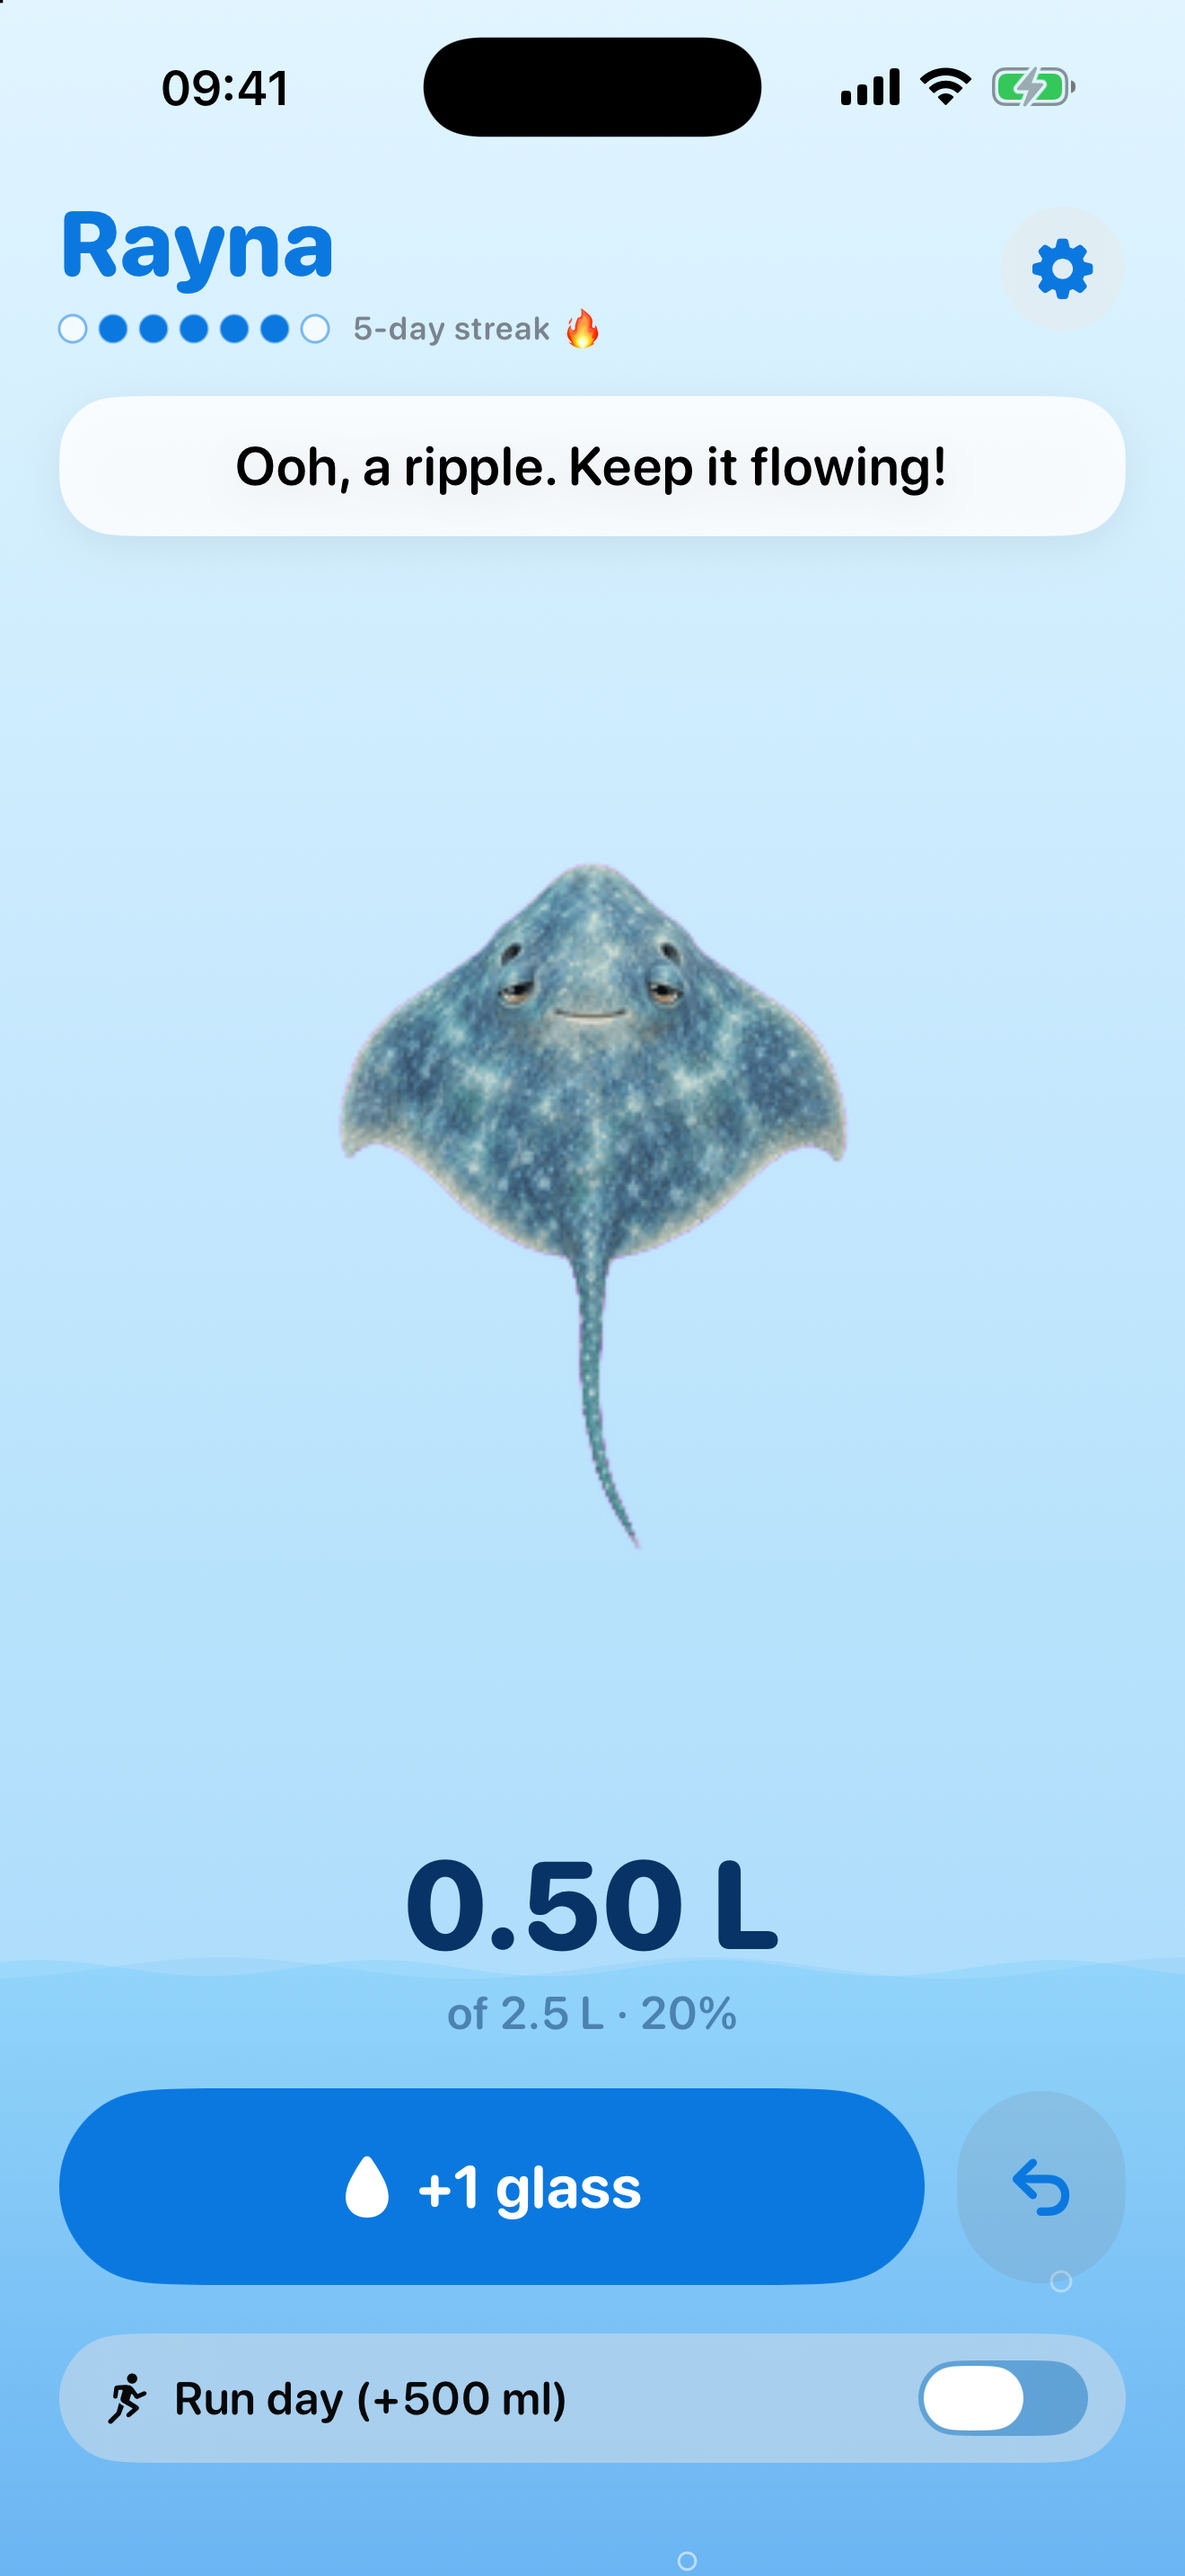
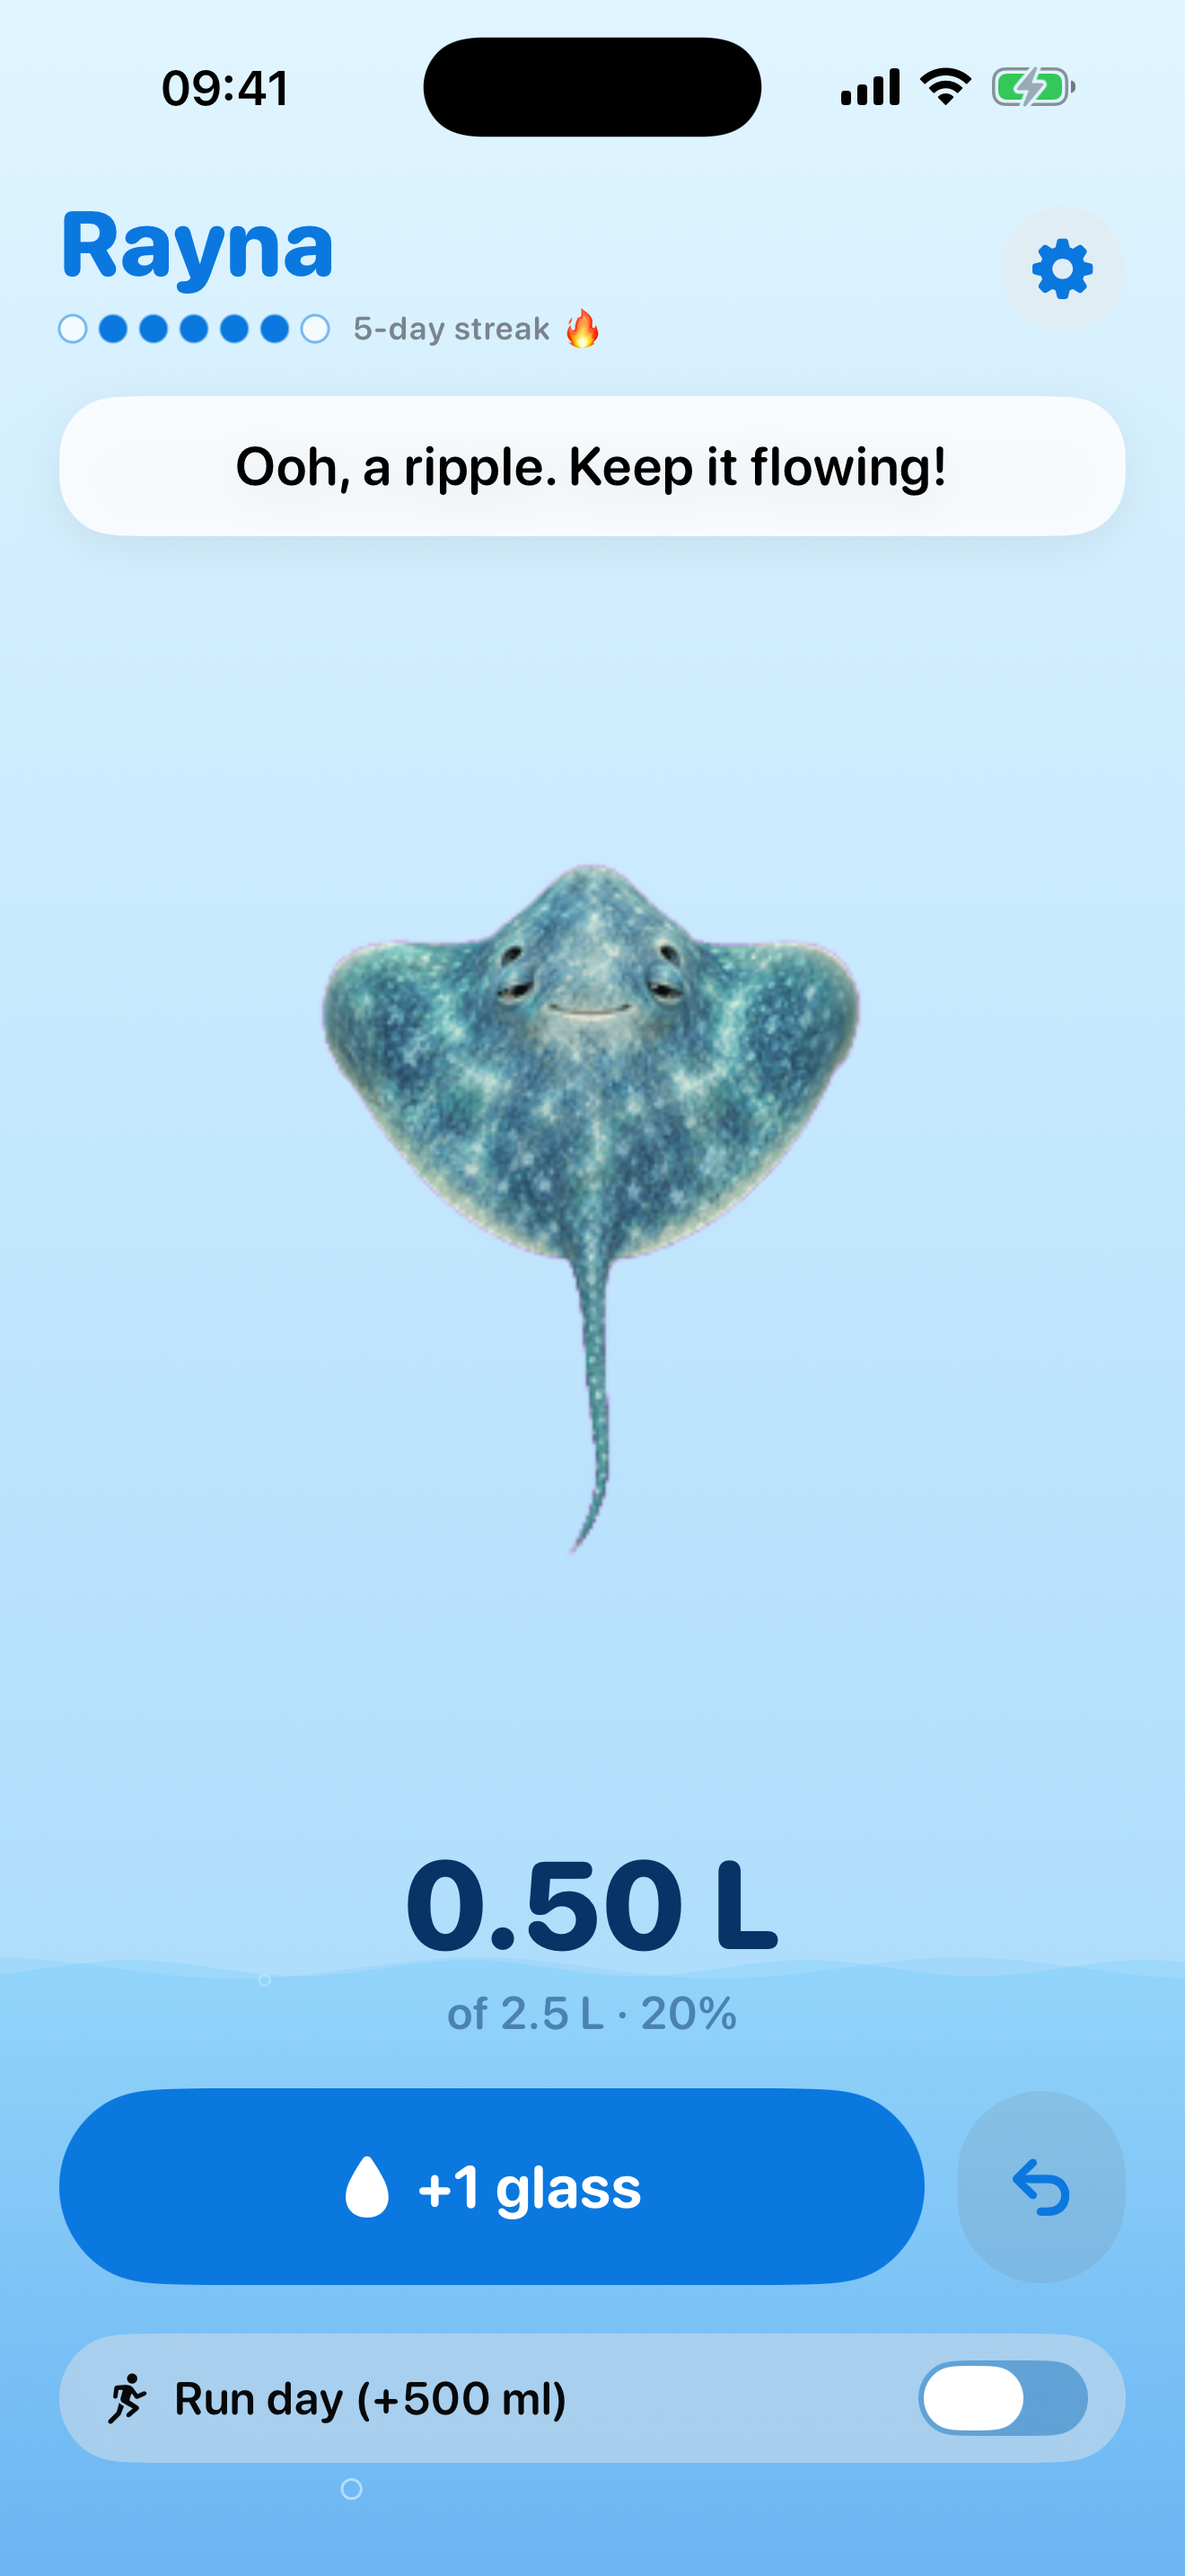
Rayna 2.1.1: faster launch, code-driven goal spin, refreshed screenshots
- Drop the generated barrel roll (body twisted unnaturally); goal = in-plane 360 spin
  with scale/bob over the idle-happy loop, plus existing confetti. Nudge 'Drank one'
  = wiggle then swim-off.
- Frames decode lazily per clip on a background queue (no lock held while decoding),
  visible idle loop first; a band still shows until frames are ready. Notification
  setup moved off the launch path. RaynaLaunch timing log + scripts/launch-time.sh.
- Screenshot script: warm-up launch so the first capture has the Dynamic Island.
- macOS 2.1.1 (build 5).

diff --git a/Sources/RaynaCore/AnimatedRayna.swift b/Sources/RaynaCore/AnimatedRayna.swift
@@ -9,12 +9,23 @@ import UIKit
 /// One animation clip shipped in `RaynaFrames/<name>/NNN.png`.
 public enum RaynaClip: String, CaseIterable {
     case idleHappy = "idle-happy", idleThirsty = "idle-thirsty"
-    case wiggle, roll, swimIn = "swim-in", swimOff = "swim-off", poutSwimOff = "pout-swim-off"
+    case wiggle, swimIn = "swim-in", swimOff = "swim-off", poutSwimOff = "pout-swim-off"
 
     /// Playback rate. Source art is 24 fps; we ship every other frame.
-    public var fps: Double { self == .roll ? 18 : 12 }
+    public var fps: Double { 12 }
     public var loops: Bool { self == .idleHappy || self == .idleThirsty }
-    public var duration: Double { Double(RaynaFrames.frames(self).count) / fps }
+    /// Frames shipped per clip (fixed so durations are known before frames are decoded).
+    public var frameCount: Int {
+        switch self {
+        case .idleHappy: return 48
+        case .idleThirsty: return 60
+        case .wiggle: return 15
+        case .swimIn: return 49
+        case .swimOff: return 37
+        case .poutSwimOff: return 49
+        }
+    }
+    public var duration: Double { Double(frameCount) / fps }
 }
 
 /// The five widget / Reduce Motion stills, by progress band.
@@ -36,50 +47,81 @@ public enum RaynaFrames {
     private final class Token {}
     private static let lock = NSLock()
     private static var cache: [String: [CGImage]] = [:]
+    private static var loading: Set<String> = []
+    /// Frames decode here, one clip at a time, never on the main thread.
+    private static let queue = DispatchQueue(label: "co.versantus.rayna.frames", qos: .userInitiated)
 
     /// Finds `Rayna_RaynaCore.bundle` wherever the host put it (Xcode app/appex, SwiftPM .app, swift run).
+    /// Cheap locations first; only scans loaded bundles as a last resort.
     static let root: URL? = {
         let name = "Rayna_RaynaCore.bundle"
-        var c: [URL?] = [Bundle.main.resourceURL, Bundle.main.bundleURL,
-                         Bundle(for: Token.self).resourceURL, Bundle(for: Token.self).bundleURL,
-                         Bundle.main.executableURL?.deletingLastPathComponent()]
-        c += Bundle.allBundles.map { $0.resourceURL } + Bundle.allFrameworks.map { $0.resourceURL }
-        for base in c.compactMap({ $0 }) {
+        func probe(_ base: URL?) -> URL? {
+            guard let base else { return nil }
             for u in [base.appendingPathComponent(name).appendingPathComponent("RaynaFrames"),
                       base.appendingPathComponent(name).appendingPathComponent("Contents/Resources/RaynaFrames"),
                       base.appendingPathComponent("RaynaFrames")]
             where FileManager.default.fileExists(atPath: u.path) { return u }
+            return nil
+        }
+        let quick: [URL?] = [Bundle.main.resourceURL, Bundle.main.bundleURL,
+                             Bundle(for: Token.self).resourceURL, Bundle(for: Token.self).bundleURL,
+                             Bundle.main.executableURL?.deletingLastPathComponent()]
+        for b in quick { if let u = probe(b) { return u } }
+        for b in Bundle.allBundles.map({ $0.resourceURL }) + Bundle.allFrameworks.map({ $0.resourceURL }) {
+            if let u = probe(b) { return u }
         }
         return nil
     }()
 
-    private static func load(_ dir: String) -> [CGImage] {
-        lock.lock(); defer { lock.unlock() }
-        if let c = cache[dir] { return c }
-        guard let root else { return [] }
-        let d = root.appendingPathComponent(dir)
-        let files = ((try? FileManager.default.contentsOfDirectory(atPath: d.path)) ?? [])
-            .filter { $0.hasSuffix(".png") }.sorted()
-        let imgs = files.compactMap { f -> CGImage? in
-            guard let src = CGImageSourceCreateWithURL(d.appendingPathComponent(f) as CFURL, nil) else { return nil }
-            return CGImageSourceCreateImageAtIndex(src, 0, [kCGImageSourceShouldCacheImmediately: true] as CFDictionary)
-        }
-        cache[dir] = imgs
-        return imgs
+    private static func decode(_ url: URL) -> CGImage? {
+        guard let src = CGImageSourceCreateWithURL(url as CFURL, nil) else { return nil }
+        return CGImageSourceCreateImageAtIndex(src, 0, [kCGImageSourceShouldCacheImmediately: true] as CFDictionary)
     }
 
-    public static func frames(_ clip: RaynaClip) -> [CGImage] { load(clip.rawValue) }
+    private static func cached(_ key: String) -> [CGImage]? {
+        lock.lock(); defer { lock.unlock() }
+        return cache[key]
+    }
+
+    /// Decode a clip in the background (no-op if cached or already loading).
+    private static func loadAsync(_ dir: String) {
+        lock.lock()
+        if cache[dir] != nil || loading.contains(dir) { lock.unlock(); return }
+        loading.insert(dir); lock.unlock()
+        queue.async {
+            var imgs: [CGImage] = []
+            if let root {
+                let d = root.appendingPathComponent(dir)
+                let files = ((try? FileManager.default.contentsOfDirectory(atPath: d.path)) ?? [])
+                    .filter { $0.hasSuffix(".png") }.sorted()
+                imgs = files.compactMap { decode(d.appendingPathComponent($0)) }
+            }
+            lock.lock(); cache[dir] = imgs; loading.remove(dir); lock.unlock()
+        }
+    }
+
+    /// Frames for a clip if they're decoded; otherwise starts decoding and returns [] (callers show a still).
+    public static func frames(_ clip: RaynaClip) -> [CGImage] {
+        if let c = cached(clip.rawValue) { return c }
+        loadAsync(clip.rawValue)
+        return []
+    }
+    public static func isReady(_ clip: RaynaClip) -> Bool { cached(clip.rawValue).map { !$0.isEmpty } ?? false }
+
+    /// One 512 px still: small enough to decode synchronously, so something shows on the very first frame.
     public static func still(_ band: RaynaBand) -> CGImage? {
-        lock.lock(); let c = cache["stills/" + band.file]; lock.unlock()
-        if let c { return c.first }
-        guard let root, let src = CGImageSourceCreateWithURL(root.appendingPathComponent("stills/\(band.file).png") as CFURL, nil),
-              let img = CGImageSourceCreateImageAtIndex(src, 0, nil) else { return nil }
-        lock.lock(); cache["stills/" + band.file] = [img]; lock.unlock()
+        let key = "stills/" + band.file
+        if let c = cached(key) { return c.first }
+        guard let root, let img = decode(root.appendingPathComponent("stills/\(band.file).png")) else { return nil }
+        lock.lock(); cache[key] = [img]; lock.unlock()
         return img
     }
-    /// Warm the cache off the main thread.
-    public static func preload(_ clips: [RaynaClip] = RaynaClip.allCases) {
-        DispatchQueue.global(qos: .utility).async { clips.forEach { _ = frames($0) } }
+    /// Warm clips in the background, in the order given (put the visible idle loop first).
+    public static func preload(_ clips: [RaynaClip]) { clips.forEach { loadAsync($0.rawValue) } }
+    /// The idle loop for `progress` first, then the rest after a short delay.
+    public static func preloadForLaunch(progress: Double) {
+        preload([progress >= 0.45 ? .idleHappy : .idleThirsty, .wiggle])
+        DispatchQueue.global(qos: .utility).asyncAfter(deadline: .now() + 2) { preload(RaynaClip.allCases) }
     }
 }
 
@@ -109,7 +151,7 @@ public struct RaynaScript: Equatable {
 }
 
 /// Animated Rayna: picks a clip by state and plays its frames with TimelineView.
-/// idle-happy (progress ≥ 45%) / idle-thirsty loops, wiggle on +1 glass, roll at goal,
+/// idle-happy (progress ≥ 45%) / idle-thirsty loops, wiggle on +1 glass, a code-driven spin at goal,
 /// or an explicit `script` (nudge panel). Reduce Motion shows the band still.
 public struct RaynaView: View {
     public var progress: Double
@@ -132,17 +174,37 @@ public struct RaynaView: View {
             if reduceMotion {
                 RaynaStill(progress: progress)
             } else {
-                TimelineView(.animation(minimumInterval: 1.0 / 24)) { tl in
+                TimelineView(.animation(minimumInterval: 1.0 / 30)) { tl in
                     if let img = frame(at: tl.date) {
+                        let _ = LaunchTiming.mark("firstAnimatedFrame")
+                        let sp = spin(at: tl.date)
                         Image(decorative: img, scale: 1).resizable().interpolation(.high).aspectRatio(contentMode: .fit)
+                            .rotationEffect(.degrees(sp.angle))
+                            .scaleEffect(sp.scale)
+                            .offset(y: sp.lift * size)
+                    } else if script != nil {
+                        Color.clear                      // nudge: don't flash a static Rayna before swim-in
                     } else {
-                        RaynaStill(progress: progress)
+                        let _ = LaunchTiming.mark("firstStill")
+                        RaynaStill(progress: progress)   // shown while the clip decodes
                     }
                 }
             }
         }
         .frame(width: size, height: fullTail ? size * 1.32 : size)
         .accessibilityLabel("Rayna the stingray, \(Int(progress * 100)) percent hydrated")
+    }
+
+    /// Goal celebration: a joyful in-plane 360° spin with a little scale-up and bob (code-driven;
+    /// replaces the generated barrel roll, which twisted her body unnaturally).
+    public static let spinDuration = 1.6
+    func spin(at date: Date) -> (angle: Double, scale: Double, lift: Double) {
+        guard script == nil, let f = flipAt else { return (0, 1, 0) }
+        let t = date.timeIntervalSince(f) / Self.spinDuration
+        guard t >= 0, t < 1 else { return (0, 1, 0) }
+        let e = t < 0.5 ? 4 * t * t * t : 1 - pow(-2 * t + 2, 3) / 2   // easeInOutCubic
+        let hump = sin(.pi * t)
+        return (360 * e, 1 + 0.14 * hump, -0.06 * hump)
     }
 
     private var idle: RaynaClip { progress >= 0.45 ? .idleHappy : .idleThirsty }
@@ -165,8 +227,8 @@ public struct RaynaView: View {
             if let t = s.then { return pick(t, age) }
             return s.clips.last.flatMap { RaynaFrames.frames($0).last }
         }
-        if let f = flipAt, date.timeIntervalSince(f) >= 0, date.timeIntervalSince(f) < RaynaClip.roll.duration {
-            return pick(.roll, date.timeIntervalSince(f))
+        if let f = flipAt, date.timeIntervalSince(f) >= 0, date.timeIntervalSince(f) < Self.spinDuration {
+            return pick(.idleHappy, date.timeIntervalSince(f))   // wings keep flapping while she spins
         }
         if let w = wiggleAt, date.timeIntervalSince(w) >= 0, date.timeIntervalSince(w) < RaynaClip.wiggle.duration {
             return pick(.wiggle, date.timeIntervalSince(w))

diff --git a/Sources/Rayna/NudgeController.swift b/Sources/Rayna/NudgeController.swift
@@ -57,7 +57,7 @@ struct NudgeView: View {
 
     @State private var opacity: Double = 1
     @State private var bubble = false
-    /// The Higgsfield clips carry all of Rayna's motion (swim in from the right, roll, pout, exit right).
+    /// The Higgsfield clips carry all of Rayna's motion (swim in from the right, wiggle, pout, exit right).
     @State private var script = RaynaScript([.swimIn], then: .idleHappy)
     @State private var leaving = false
 
@@ -98,7 +98,7 @@ struct NudgeView: View {
     }
 
     private func enter() {
-        RaynaFrames.preload([.swimIn, .idleHappy, .roll, .swimOff, .poutSwimOff])
+        RaynaFrames.preload([.swimIn, .idleHappy, .wiggle, .swimOff, .poutSwimOff])
         script = RaynaScript([.swimIn], then: .idleHappy)
         if reduceMotion {
             opacity = 0
@@ -115,7 +115,7 @@ struct NudgeView: View {
     private func drank() {
         guard !leaving else { return }
         state.addGlass()
-        swimOff([.roll, .swimOff])          // flip-off = roll + swim-off chained
+        swimOff([.wiggle, .swimOff])        // happy wiggle, then off she goes
     }
 
     private func later() {

diff --git a/Sources/RaynaCore/LaunchTiming.swift b/Sources/RaynaCore/LaunchTiming.swift
@@ -1,0 +1,25 @@
+import Foundation
+import os
+
+/// Logs time from process start to Rayna's first drawn frame (look for "RaynaLaunch" in the console).
+public enum LaunchTiming {
+    static let log = Logger(subsystem: "co.versantus.rayna", category: "launch")
+    private static var done = Set<String>()
+    private static let lock = NSLock()
+
+    static var processStart: Date? {
+        var kp = kinfo_proc(); var size = MemoryLayout<kinfo_proc>.stride
+        var mib: [Int32] = [CTL_KERN, KERN_PROC, KERN_PROC_PID, getpid()]
+        guard sysctl(&mib, 4, &kp, &size, nil, 0) == 0 else { return nil }
+        let tv = kp.kp_proc.p_starttime
+        return Date(timeIntervalSince1970: Double(tv.tv_sec) + Double(tv.tv_usec) / 1e6)
+    }
+
+    public static func mark(_ event: String) {
+        lock.lock(); let first = done.insert(event).inserted; lock.unlock()
+        guard first, let s = processStart else { return }
+        let ms = Int(Date().timeIntervalSince(s) * 1000)
+        log.notice("RaynaLaunch \(event, privacy: .public) \(ms, privacy: .public) ms")
+        print("RaynaLaunch \(event) \(ms) ms")
+    }
+}

diff --git a/Sources/Rayna/RaynaApp.swift b/Sources/Rayna/RaynaApp.swift
@@ -5,8 +5,8 @@ import AppKit
 final class AppDelegate: NSObject, NSApplicationDelegate {
     func applicationDidFinishLaunching(_ notification: Notification) {
         NSApp.setActivationPolicy(.accessory)
-        NotificationManager.shared.setUp()
-        RaynaFrames.preload()
+        RaynaFrames.preloadForLaunch(progress: AppState.shared.progress)
+        DispatchQueue.main.async { NotificationManager.shared.setUp() }
         if CommandLine.arguments.contains("--preview-nudge") {
             DispatchQueue.main.asyncAfter(deadline: .now() + 1) {
                 NudgeController.shared.show(text: AppState.reminders[0], isSwap: false)

diff --git a/iOS/Rayna/RaynaIOSApp.swift b/iOS/Rayna/RaynaIOSApp.swift
@@ -7,8 +7,8 @@ final class AppDelegate: NSObject, UIApplicationDelegate, UNUserNotificationCent
     func application(_ application: UIApplication,
                      didFinishLaunchingWithOptions launchOptions: [UIApplication.LaunchOptionsKey: Any]? = nil) -> Bool {
         UNUserNotificationCenter.current().delegate = self
-        ReminderScheduler.registerCategories()
-        RaynaFrames.preload()
+        RaynaFrames.preloadForLaunch(progress: RaynaStore.shared.progress)
+        DispatchQueue.global(qos: .utility).async { ReminderScheduler.registerCategories() }
         return true
     }
 
